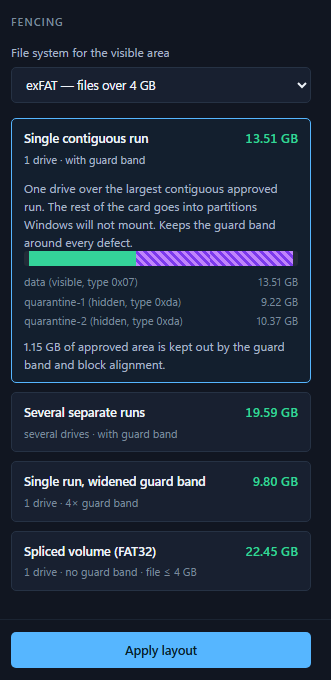
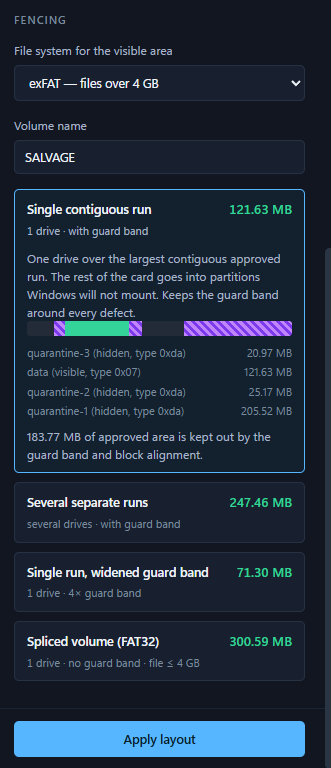
Exercise the stale-map gate, and capture the layout chooser
Both were stuck on hardware nobody has: a card with defects and enough
contiguous clean area to build a layout from. Reaching them instead
through a reconstructed card record, which is the same door the gate
exists to guard — a record is read from disk, and one describing a card
that no longer matches is exactly the case in question.

The gate holds. With a three-day-old record adopted, choosing a layout,
typing the device name in full and confirming, the backend refused
before opening the disk: "apply refused: the working map was not
verified in this session". The card came through untouched, still the
FAT32 volume the previous run left on it.

The screenshot is now the running program rather than a render. The one
it replaces predated the volume-name field, so the README had been
showing a panel the program no longer has. Its provenance is stated
beside it: a screenshot is not a place to imply a card was on hand.

Two things surfaced doing this. The refusal arrived in a toast that
times out after six seconds, so a user who approved a destructive write
and looked away would come back to a screen identical to the one they
started on, with no record of what happened. The three operations that
ask for a typed device name now use the banner that persists until the
next action — which, for this refusal, is the inspection that fixes it.

And the device-list failure showed the same sentence twice: the banner
sits 46px from the bottom and the toast 22px, and they overlap. The
[…]

diff --git a/ui/app.js b/ui/app.js
@@ -499,8 +499,11 @@ async function refreshDevices() {
      * the user goes on staring at. */
     const select = $("device-select");
     select.innerHTML = `<option value="">${escapeHtml(t("ui.listFailed"))}</option>`;
+    // The banner alone. Both at once put the same sentence in two boxes that
+    // overlap: the toast sits at 22px from the bottom and the banner at 46px,
+    // and the banner is the right one here — a device list that failed to load
+    // is standing context, not a passing notice.
     showFailure(t(String(e)));
-    toast(t(String(e)), "error");
     return;
   }
 
@@ -1005,7 +1008,7 @@ async function releaseCard() {
     resetResults();
     await refreshDevices();
   } catch (e) {
-    toast(t(String(e)), "error");
+    showFailure(t(String(e)));
   }
 }
 
@@ -1164,7 +1167,7 @@ async function prepareCard() {
     toast(t("prepare.done"), "ok");
     await refreshDevices();
   } catch (e) {
-    toast(t(String(e)), "error");
+    showFailure(t(String(e)));
   }
 }
 
@@ -1336,7 +1339,10 @@ async function applyPlan() {
     $("modal").classList.remove("hidden");
     toast(t("apply.done"), "ok");
   } catch (e) {
-    toast(t(String(e)), "error");
+    // Persisted rather than toasted: see showFailure. This is the path that
+    // refuses a layout built from a record adopted in an earlier session, and
+    // the remedy is to run the inspection — which clears it.
+    showFailure(t(String(e)));
   }
 }
 

diff --git a/README.md b/README.md
@@ -219,7 +219,10 @@ prints both costs next to the option rather than only the larger number.
 <p align="center">
   <em>Every layout states what it costs beside what it yields, because the
   option that recovers the most space is also the one that gives up the guard
-  band — and the larger number should not win by default.</em>
+  band — and the larger number should not win by default. The panel above is
+  the running program, driven from a reconstructed sector map: a card that
+  fails this particular way was not on hand, and a screenshot is not a place
+  to imply one was.</em>
 </p>
 
 ### What a result looks like
